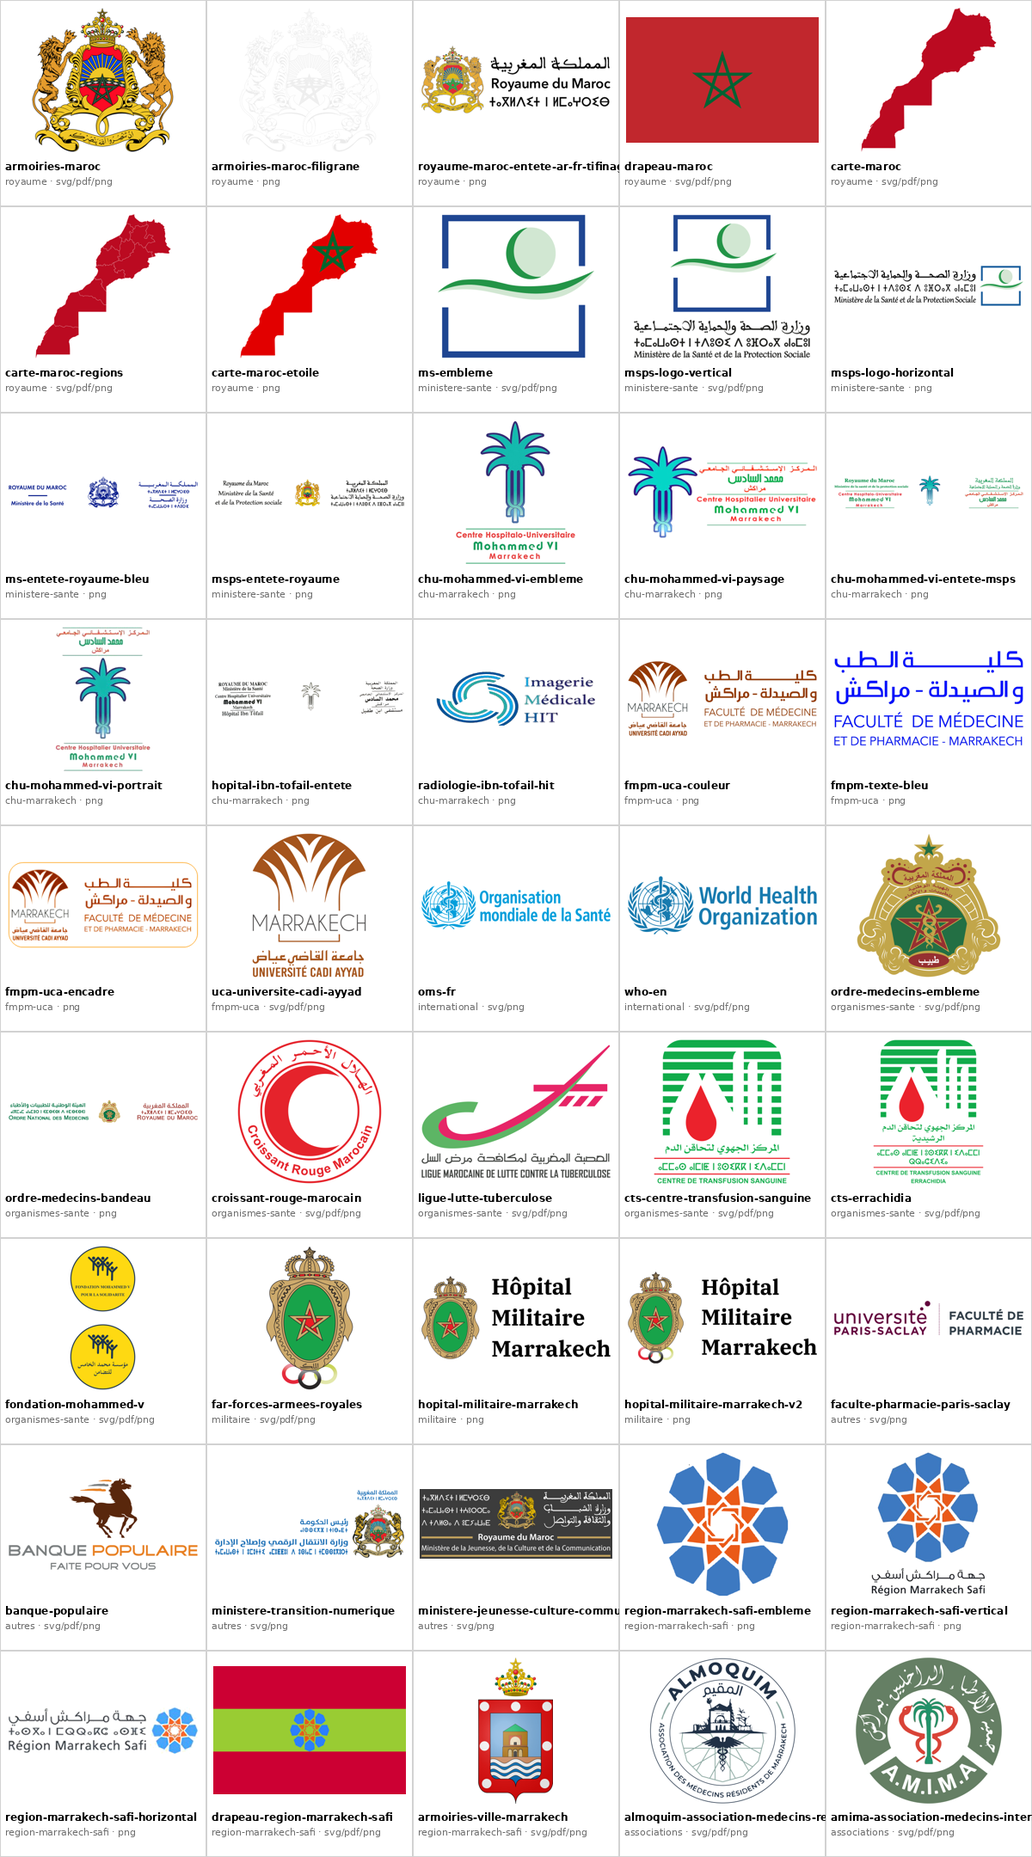
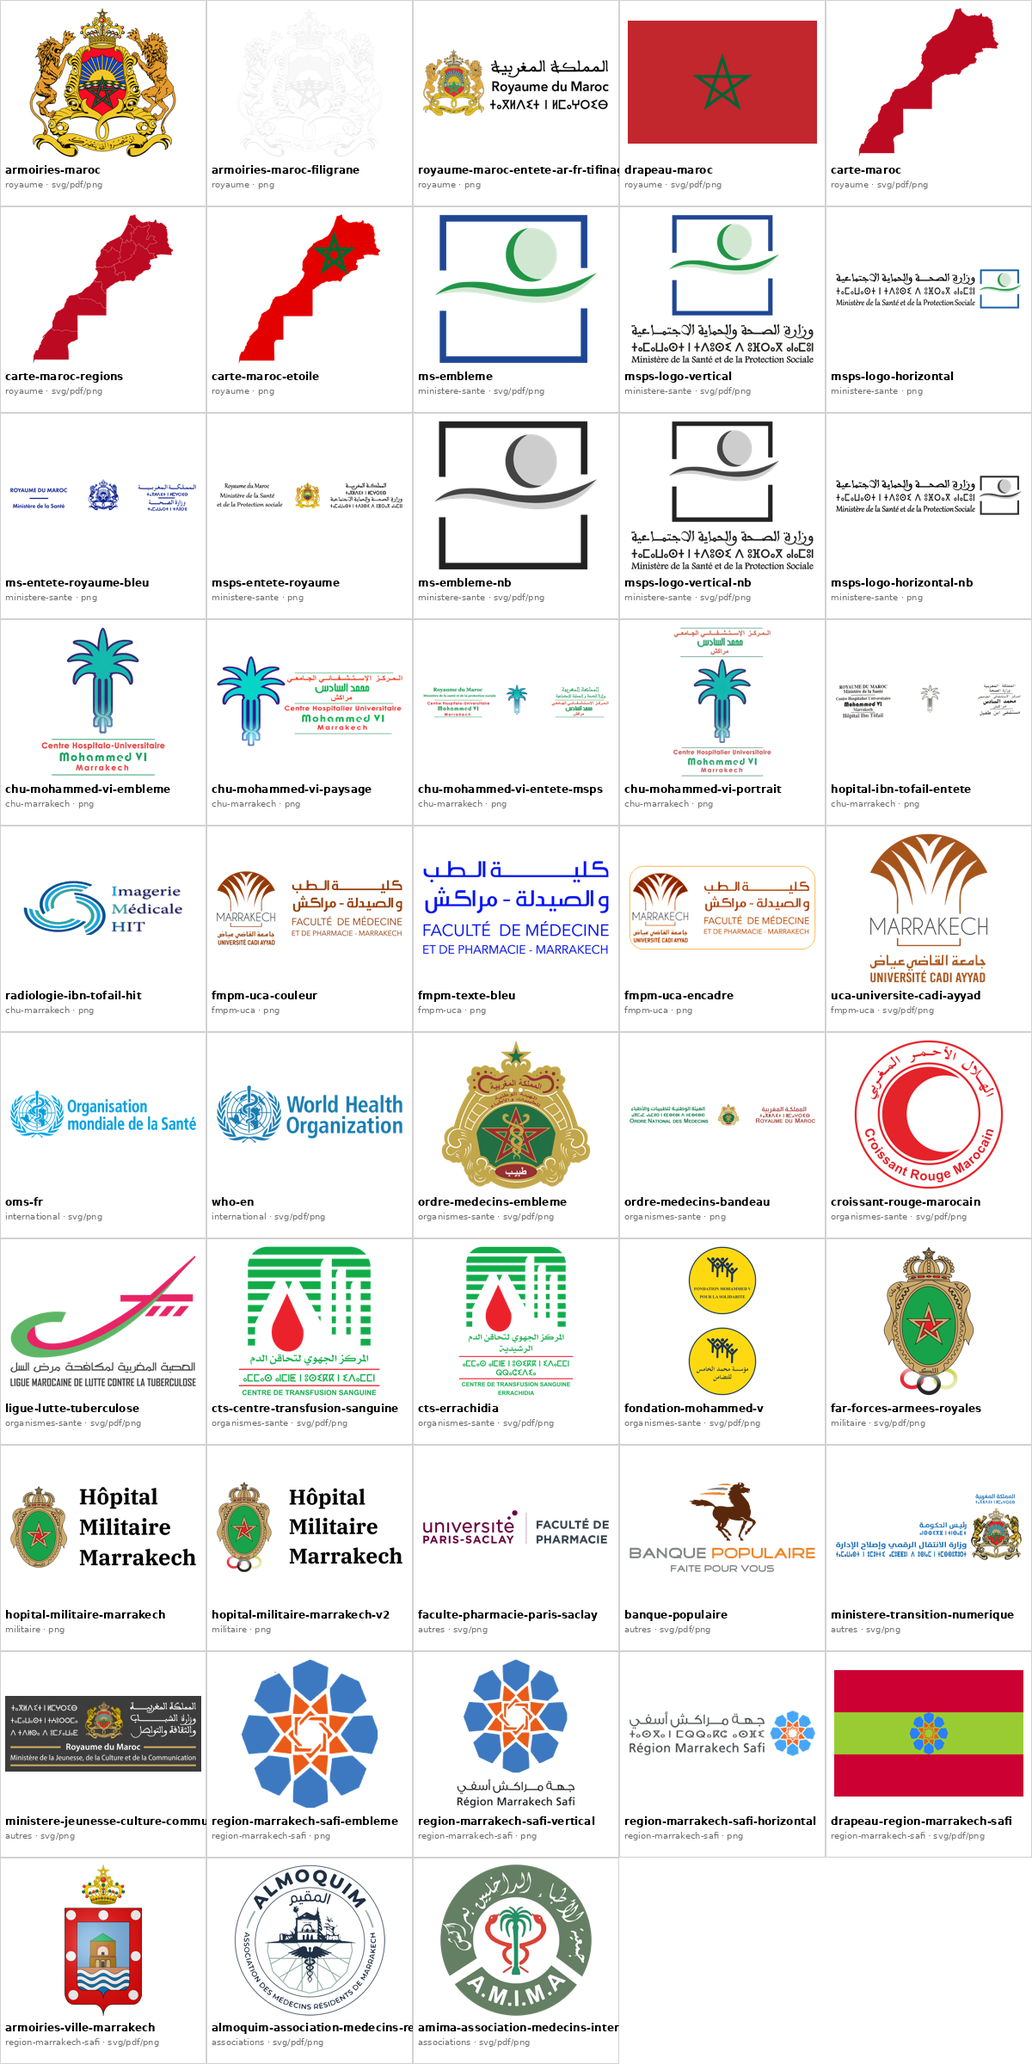
Add CONTEXT.md, build.sh and catalogue consistency check
- CONTEXT.md: project context for AI assistants (assets/ is the only home
  for logos; check the installed skill against the repo before use)
- build.sh (already referenced by SKILL.md): regenerate catalogue.png,
  verify assets/ = catalogue.json = SKILL.md = README.md, zip the skill
  into dist/logos-officiels-maroc.zip
- scripts/planche_catalogue.py: regenerate the preview sheet; it now
  shows all 48 logos (the 3 MSPS B&W variants were missing)
- outils/verifier_catalogue.py: fail on missing/orphan files, ids absent
  from the SKILL.md/README.md tables, or a wrong logo count
- SKILL.md: add the 3 MSPS B&W rows to the catalogue table, fix
  TO-ADD.md -> to-add.md, document the regenerate/build steps
- to-add.md: use the table format and "Fait" section SKILL.md describes
- .gitattributes: mark png/jpg/pdf/zip as binary; add .gitignore

Claude-Session: https://claude.ai/code/session_012YGmGSGwMLe8gRHBoyrvgG

Changed region(s): [[0.0, 0.0, 1.0, 1.0], [0.9867, 0.9616, 1.0, 1.0]]

diff --git a/outils/verifier_catalogue.py b/outils/verifier_catalogue.py
@@ -1,0 +1,55 @@
+"""Vérifie que assets/, catalogue.json, SKILL.md et README.md décrivent les mêmes logos.
+
+Outil du dépôt (hors skill) — lancé par ./build.sh.
+
+Usage :
+  python3 outils/verifier_catalogue.py      # code 1 + liste des écarts s'il y en a
+
+Contrôles :
+  - chaque fichier cité dans assets/catalogue.json existe, est nommé <id>.<format>
+    et rangé dans assets/logos/<categorie>/ ; chaque entrée a un PNG ;
+  - aucun fichier de assets/logos/ n'est absent du catalogue ;
+  - chaque id du catalogue figure dans les tableaux de SKILL.md et de README.md ;
+  - le nombre annoncé (« bibliothèque de N logos ») dans SKILL.md et README.md est le bon.
+"""
+import json, os, re, sys
+
+RACINE = os.path.normpath(os.path.join(os.path.dirname(os.path.abspath(__file__)), ".."))
+CAT = json.load(open(os.path.join(RACINE, "assets", "catalogue.json"), encoding="utf-8"))
+
+
+def erreurs():
+    out, cites = [], set()
+    for e in CAT:
+        for f in e["fichiers"]:
+            cites.add(f["fichier"])
+            if not os.path.exists(os.path.join(RACINE, f["fichier"])):
+                out.append(f"fichier manquant : {f['fichier']}")
+            if f["fichier"] != f"assets/logos/{e['categorie']}/{e['id']}.{f['format']}":
+                out.append(f"chemin inattendu pour {e['id']} : {f['fichier']}")
+        if not any(f["format"] == "png" for f in e["fichiers"]):
+            out.append(f"pas de PNG pour {e['id']}")
+    for r, _, fs in os.walk(os.path.join(RACINE, "assets", "logos")):
+        for f in fs:
+            rel = os.path.relpath(os.path.join(r, f), RACINE)
+            if rel not in cites:
+                out.append(f"fichier hors catalogue : {rel}")
+    for doc in ("SKILL.md", "README.md"):
+        texte = open(os.path.join(RACINE, doc), encoding="utf-8").read()
+        out += [f"{doc} : id absent des tableaux : {e['id']}" for e in CAT if f"| `{e['id']}` |" not in texte]
+        out += [f"{doc} : annonce {n} logos, le catalogue en a {len(CAT)}"
+                for n in re.findall(r"[Bb]iblioth[eè]que de \**(\d+) logos", texte) if int(n) != len(CAT)]
+    return out
+
+
+def main():
+    err = erreurs()
+    for x in err:
+        print("ERREUR", x)
+    if err:
+        sys.exit(1)
+    print(f"OK : {len(CAT)} logos, assets/ = catalogue.json = SKILL.md = README.md")
+
+
+if __name__ == "__main__":
+    main()

diff --git a/scripts/planche_catalogue.py b/scripts/planche_catalogue.py
@@ -1,0 +1,51 @@
+"""Régénère la planche d'aperçu assets/catalogue.png depuis assets/catalogue.json.
+
+Usage :
+  python3 planche_catalogue.py [sortie.png]
+
+Une vignette de 240 px par logo (5 colonnes), dans l'ordre du catalogue :
+logo centré (sur fond sombre si sa variante contient « fond sombre »), id en gras, « catégorie · formats » en gris dessous.
+À relancer après tout ajout / retrait de logo dans catalogue.json.
+"""
+import json, os, sys
+from PIL import Image, ImageDraw, ImageFont
+
+ICI = os.path.dirname(os.path.abspath(__file__))
+SK = os.path.normpath(os.path.join(ICI, ".."))
+CAT = json.load(open(os.path.join(SK, "assets", "catalogue.json"), encoding="utf-8"))
+T, COLS = 240, 5
+
+
+def police(nom, taille):
+    try:
+        return ImageFont.truetype(f"/usr/share/fonts/truetype/dejavu/{nom}.ttf", taille)
+    except OSError:
+        return ImageFont.load_default()
+
+
+def main():
+    dst = sys.argv[1] if len(sys.argv) > 1 else os.path.join(SK, "assets", "catalogue.png")
+    fb, fr = police("DejaVuSans-Bold", 12), police("DejaVuSans", 10)
+    rows = (len(CAT) + COLS - 1) // COLS
+    sheet = Image.new("RGB", (COLS * T, rows * T), "white")
+    for i, e in enumerate(CAT):
+        src = next(f["fichier"] for f in e["fichiers"] if f["format"] == "png")
+        im = Image.open(os.path.join(SK, src)).convert("RGBA")
+        im.thumbnail((T - 20, T - 64))
+        t = Image.new("RGBA", (T, T), "white")
+        x, y = (T - im.width) // 2, 8 + (T - 64 - im.height) // 2
+        d = ImageDraw.Draw(t)
+        if "fond sombre" in e["variante"]:  # logo blanc : invisible sur la vignette blanche sinon
+            d.rectangle([x - 4, y - 4, x + im.width + 3, y + im.height + 3], fill=(60, 60, 60))
+        t.alpha_composite(im, (x, y))
+        d.rectangle([0, 0, T - 1, T - 1], outline=(210, 210, 210))
+        d.text((6, T - 50), e["id"], fill="black", font=fb)
+        formats = "/".join(f["format"] for f in e["fichiers"])
+        d.text((6, T - 32), f"{e['categorie']} · {formats}", fill=(110, 110, 110), font=fr)
+        sheet.paste(t.convert("RGB"), ((i % COLS) * T, (i // COLS) * T))
+    sheet.save(dst, optimize=True)
+    print(os.path.abspath(dst))
+
+
+if __name__ == "__main__":
+    main()

diff --git a/CONTEXT.md b/CONTEXT.md
@@ -1,0 +1,70 @@
+# logos-officiels-maroc — AI Context File
+_Last synced: 2026-10-16 @ e5e7fdf_
+
+## 1. What This Is (Plain English)
+- **In one sentence:** a Claude skill that keeps 48 cleaned-up official Moroccan logos (kingdom, Ministry of Health, CHU Marrakech, FMPM, WHO…) and hands the one you ask for back as a transparent PNG. It can also print two Marrakech Prefecture admin forms as PDFs.
+- **Why it exists:** I keep needing these logos for letterheads, title pages, attestations and forms. Hunting for them online each time and cleaning off white backgrounds is a waste.
+- **Who uses it:** me, plus anyone I share the skill or repo with (medical students and residents in Marrakech). Public GitHub repo, MIT licence (`LICENSE`). The logos still belong to their institutions (`README.md`, "Avertissement").
+- **Vibe:** a polished personal tool. It's small, but the catalogue has to stay accurate because Claude trusts it blindly.
+- **This repo is also the backup** of the skill. The logos live in **one place only: `assets/`**. There's no separate copy folder.
+
+## 2. How To Run It
+- **Setup once:** `pip install --break-system-packages reportlab arabic-reshaper python-bidi cairosvg scipy pillow` (`SKILL.md`, "Formulaires"). The forms also need the system fonts Liberation Serif and FreeSerif in `/usr/share/fonts/truetype/{liberation,freefont}/`.
+  - Optional, only for adding logos: `vtracer` (vectorising), `opencv-contrib-python-headless` + the `EDSR_x4.pb` model (upscaling, `scripts/agrandir_logo.py:1-20`).
+- **Get a logo:** `python3 scripts/donner_logo.py chu --lister`, then `python3 scripts/donner_logo.py <id> --sortie ./out`
+- **Print a form:** `python3 scripts/formulaire_cessation_reprise.py out.pdf` / `python3 scripts/formulaire_note_stage.py out.pdf`
+- **Build / deploy:** `./build.sh`. It redraws `assets/catalogue.png`, checks that everything lists the same logos, and writes `dist/logos-officiels-maroc.zip`. Upload that zip in Claude → Settings → Capabilities → Skills. For Claude Code, copy the folder to `~/.claude/skills/logos-officiels-maroc/`.
+- **Required env vars:** none.
+
+## 3. Tech Stack
+- **Language + runtime:** Python 3 scripts plus Bash (`build.sh`). No Python version pinned and no `requirements.txt`.
+- **Key libraries:** Pillow (all image work), cairosvg (sharp SVG→PNG when enlarging), reportlab + arabic-reshaper + python-bidi (PDF forms with Arabic), scipy/numpy (background removal), vtracer (tracing). No versions pinned anywhere.
+- **What kind of project:** a Claude Agent Skill (`SKILL.md` with YAML frontmatter `name` + `description`), plus an asset library and CLI scripts.
+- **External services:** none at runtime. Logo sources when adding new ones: official sites, vector.ma, seeklogo.com, Wikimedia Commons.
+- **CI:** none (`.github/` absent).
+
+## 4. Code Map (The Important Files Only)
+- `SKILL.md`: **the brain.** Claude reads it, and its rules (RULE 1 hand out a logo, RULE 2 ask before putting one in a document) drive the behaviour. It also holds a catalogue table per category. Watch out: the frontmatter `description` is 976 chars, and claude.ai caps it at 1024.
+- `assets/catalogue.json`: **the source of truth** for which logos exist. Each entry has `element` (organisation), `variante`, `id`, `categorie`, `description` and `fichiers[]` (with `px` for the PNG). One element can have several variants.
+- `assets/logos/<categorie>/<id>.<png|svg|pdf>`: the logo files. Every entry has a PNG; SVG/PDF exist only when a vector version is available.
+- `assets/couleur/`, `assets/nb/`: the 3 form logos (colour, and B&W on white). `assets/nb/` is hard-wired into the form scripts (`scripts/formulaire_cessation_reprise.py:18-20`).
+- `assets/catalogue.png`: the labelled preview sheet (5 columns, 240 px tiles), drawn by `scripts/planche_catalogue.py`.
+- `scripts/donner_logo.py`: **entry point.** Searches without accents across id/element/variant/category/description. Exit code 2 means several matches (Claude must ask which). It writes `<id>.png`; with `--nb` it writes `<id>-nb.png`.
+- `scripts/optimiser_logo.py`, `vectoriser_logo.py`, `agrandir_logo.py`: prepare new logos (strip background + crop, trace to SVG, upscale ×4).
+- `scripts/formulaire_cessation_reprise.py`, `formulaire_note_stage.py`: A4 PDF forms. `note_stage` imports helpers via `from formulaire_cessation_reprise import *`.
+- `outils/verifier_catalogue.py`: repo-only check (not shipped in the skill). It exits 1 if `assets/` ≠ `catalogue.json` ≠ the `SKILL.md` / `README.md` tables, or if the "bibliothèque de N logos" count is wrong.
+- `build.sh`: preview sheet + check + zip. The zip holds only `SKILL.md README.md LICENSE assets/ scripts/`.
+- `to-add.md`: wishlist of missing logos, in the format `| [ ] | prio | element | variantes | remarque |`, plus a "Fait" section.
+
+## 5. Rules For Editing This Code
+- **Same logos everywhere.** Any logo change has to land in all of these together: the file in `assets/logos/<categorie>/`, the entry in `catalogue.json`, the row in the `SKILL.md` table, the row in the `README.md` table, and the counts in the `SKILL.md` description / `README.md` intro. Then run `./build.sh`; it fails loudly on any mismatch.
+- **Analyse the deployed skill too.** The copy installed in Claude (claude.ai Skills) can lag behind this repo. Before claiming a logo is available, compare the installed skill's `SKILL.md` / catalogue with this repo's `assets/`. Example: on 2026-10-16 the installed description still said 45 logos, while the repo has 48.
+- File naming: `<id>.<format>`, where `id` = `<element>-<variante-slug>`, all lowercase and accent-free. Paths in `catalogue.json` are relative to the repo root.
+- PNGs are RGBA with a transparent background, cropped to the content plus a 1 % margin (`scripts/optimiser_logo.py`).
+- Scripts find files relative to their own location (`os.path.dirname(__file__)/..`). Keep that, because the skill runs from wherever Claude unpacks it.
+- Arabic in reportlab: always `get_display(arabic_reshaper.reshape(text))`.
+- All user-facing text (SKILL.md, script help, docs) is in French. Keep it French.
+- Forms must stay faithful to the scanned originals. Only 2 typos were fixed (see `SKILL.md`). Never add a table to the internship grade form unless asked.
+
+## 6. Fragile Bits & Landmines
+- **Looks broken, isn't:** `drapeau-maroc` and `drapeau-region-marrakech-safi` are deliberately solid rectangles. `armoiries-maroc-filigrane` is deliberately very pale. `ministere-jeunesse-culture-communication` is white (dark backgrounds only, and the preview sheet draws it on dark grey). `fmpm-uca-encadre` keeps its white rounded box.
+- **B&W printing:** plain greyscale makes the gold of the armoiries and the light green of the MS logo vanish (yellow ≈ white). That's why `--nb` uses gamma 1.6 and the `*-nb` MSPS variants exist.
+- **`ms-entete-royaume-bleu`** carries the pre-2021 ministry name. Use it only to reproduce old documents.
+- **Small PNGs (< 400 px)** are listed in `SKILL.md`. Don't print them wider than ~3 cm.
+- **`.gitattributes`:** PNG/JPG/PDF/ZIP are marked `binary`, so `text=auto` can never rewrite line endings inside a PDF.
+- **Skip on cleanup passes:** `assets/couleur/` isn't read by any script, but it holds the colour originals of the form logos. Keep it.
+- `scripts/agrandir_logo.py` contains a hard-coded `/home/claude/...` model path. It's just a fallback location; leave it.
+
+## 7. Current State
+- **Last shipped:** 3 B&W MSPS variants (`ms-embleme-nb`, `msps-logo-vertical-nb`, `msps-logo-horizontal-nb`), bringing the catalogue to 48. Today: added them to the `SKILL.md` tables, redrew `catalogue.png` (it had only 45 tiles), and added `build.sh` (which `SKILL.md` already referenced but didn't exist), `scripts/planche_catalogue.py`, `outils/verifier_catalogue.py`, `.gitignore` and binary rules. Fixed `TO-ADD.md` → `to-add.md` and aligned its format with what `SKILL.md` describes.
+- **Working on now:** keeping the repo as a shareable backup of the skill.
+- **Next up:** re-upload `dist/logos-officiels-maroc.zip` to Claude so the installed skill has all 48 logos. Fill `to-add.md` with the logos that are still missing.
+
+## 8. Update Protocol (Verbatim)
+> **For the AI Assistant:** When asked to "Update CONTEXT.md":
+> 1. Re-run Phase 0 — check for new or changed `CLAUDE.md` / `AGENTS.md` / `GEMINI.md` / `.github/` files, merge what's new, and re-run Phase 3 so each of them still points to `CONTEXT.md`.
+> 2. Re-scan the tree, manifests, and `.github/workflows/` for drift.
+> 3. Read our recent conversation for new decisions, fragile bits discovered, or shifted goals.
+> 4. Refresh the `_Last synced_` line with today's date and current commit SHA.
+> 5. Rewrite — do not append. One clean source of truth. Preserve still-true content, revise the rest.
+> 6. Keep §1 and §2 in plain English. Keep the file under ~200 lines.

diff --git a/SKILL.md b/SKILL.md
@@ -22,7 +22,7 @@ Consignes explicites de l'utilisateur — à appliquer à chaque fois.
    - demander laquelle avec AskUserQuestion (jusqu'à 4 options : libellé = variante, description = format/taille) ; au-delà de 4, demander le numéro sur la planche ;
    - si la recherche couvre plusieurs éléments (ex. « CHU » → CHU Mohammed VI + Hôpital Ibn Tofail), demander d'abord l'élément puis la variante — ou proposer directement les meilleures si c'est clair.
    Puis étape 2. Si l'utilisateur dit « tous » / « toutes les versions », remettre chaque variante.
-4. **Aucune correspondance** → le dire en une phrase, indiquer où le chercher — en priorité le site officiel de l'organisme, puis **[vector.ma](https://vector.ma/)** (logos marocains, souvent vectoriels) et **[seeklogo.com](https://seeklogo.com/)** (fichiers `.ai`/SVG) — demander de l'uploader, et proposer de l'ajouter à la bibliothèque (voir « Ajouter un logo »). L'utilisateur tient la liste des logos manquants dans `TO-ADD.md` à la racine de son dépôt GitHub de la skill : si le logo n'y figure pas, lui proposer la ligne à ajouter (format du tableau : `| [ ] | prio | element | variantes | remarque |`).
+4. **Aucune correspondance** → le dire en une phrase, indiquer où le chercher — en priorité le site officiel de l'organisme, puis **[vector.ma](https://vector.ma/)** (logos marocains, souvent vectoriels) et **[seeklogo.com](https://seeklogo.com/)** (fichiers `.ai`/SVG) — demander de l'uploader, et proposer de l'ajouter à la bibliothèque (voir « Ajouter un logo »). L'utilisateur tient la liste des logos manquants dans `to-add.md` à la racine de son dépôt GitHub de la skill : si le logo n'y figure pas, lui proposer la ligne à ajouter (format du tableau : `| [ ] | prio | element | variantes | remarque |`).
 5. Après la remise, une ligne au plus : proposer SVG/PDF s'ils existent (`--format svg|pdf|tous`) et/ou la version N&B (`--nb`).
 
 Options utiles : `--largeur 800` (redimensionne ; les logos vectoriels sont re-rendus nets même au-delà de la taille stockée), `--nb [gamma]` (gris assombri pour impression N&B, transparence conservée), `--format tous`.
@@ -77,6 +77,9 @@ Chaque entrée = un **élément** (organisme) + une **variante** ; un élément 
 | ministere-sante | horizontal trilingue | `msps-logo-horizontal` | png 875x199 |
 | ministere-sante | bandeau Royaume, ancien nom | `ms-entete-royaume-bleu` | png 1564x288 |
 | ministere-sante | bandeau Royaume + MSPS | `msps-entete-royaume` | png 1209x193 |
+| ministere-sante | emblème seul — noir & blanc | `ms-embleme-nb` | svg, pdf, png 1020x932 |
+| ministere-sante | vertical trilingue — noir & blanc | `msps-logo-vertical-nb` | svg, pdf, png 1655x1349 |
+| ministere-sante | horizontal trilingue — noir & blanc | `msps-logo-horizontal-nb` | png 875x199 |
 
 ### CHU Mohammed VI Marrakech
 
@@ -161,7 +164,7 @@ Sources où chercher (dans cet ordre) : site officiel de l'organisme (version à
 2. **Nouvelle variante d'un élément existant** (cas le plus courant) : réutiliser son `element` exact, choisir une `variante` courte et distinctive (ex. « vertical bleu », « bandeau 2024 », « arabe seul ») et un `id` = `<element>-<variante-en-slug>`. Vérifier d'abord avec `--apercu` que ce n'est pas un doublon visuel d'une variante déjà présente (même dessin, simple différence de taille → garder la meilleure résolution, ne pas ajouter).
    **Nouvel élément** : nouvel `element` en slug (nom de l'organisme).
    Fichiers : `assets/logos/<categorie>/<id>.<ext>` ; entrée dans `catalogue.json` (`element`, `variante`, `id`, `categorie`, `description`, `fichiers` avec `px` pour le PNG).
-3. Régénérer `catalogue.png`, mettre à jour le tableau ci-dessus, cocher la ligne correspondante dans `TO-ADD.md` du dépôt et la déplacer dans « Fait », puis repackager (`./build.sh` à la racine du dépôt).
+3. Régénérer `catalogue.png` (`python3 scripts/planche_catalogue.py`), mettre à jour le tableau ci-dessus et celui du `README.md`, cocher la ligne correspondante dans `to-add.md` du dépôt et la déplacer dans « Fait », puis repackager : `./build.sh` à la racine du dépôt (vérifie que `assets/`, `catalogue.json`, `SKILL.md` et `README.md` listent les mêmes logos, puis crée `dist/logos-officiels-maroc.zip`).
 
 ## Formulaires prêts (A4, vectoriels, optimisés impression N&B)
 

diff --git a/README.md b/README.md
@@ -6,7 +6,7 @@ Skill Claude : bibliothèque de **48 logos officiels marocains** (PNG transparen
 
 ## Installation
 
-- **Claude (app)** : Paramètres → Capacités → Skills → importer le dossier zippé `logos-officiels-maroc/` (celui qui contient `SKILL.md`).
+- **Claude (app)** : `./build.sh` → importer `dist/logos-officiels-maroc.zip` dans Paramètres → Capacités → Skills.
 - **Claude Code** : copier le dossier dans `~/.claude/skills/logos-officiels-maroc/`.
 
 ## Usage rapide
@@ -22,8 +22,12 @@ python3 scripts/donner_logo.py <id> --sortie ./out    # remettre en PNG transpar
 SKILL.md                 instructions lues par Claude
 assets/catalogue.json    index des logos (id, variante, fichiers)
 assets/catalogue.png     planche d'aperçu
-assets/logos/<catégorie>/ fichiers sources
-scripts/                 donner / optimiser / agrandir / vectoriser + formulaires PDF
+assets/logos/<catégorie>/ fichiers des logos (seul emplacement — pas de copie ailleurs)
+assets/couleur, assets/nb logos des formulaires PDF
+scripts/                 donner / optimiser / agrandir / vectoriser / planche + formulaires PDF
+outils/                  vérification du catalogue (hors skill)
+build.sh                 planche + vérification + zip de la skill dans dist/
+CONTEXT.md               contexte du projet pour les assistants IA
 ```
 
 ## Catalogue
@@ -128,7 +132,7 @@ scripts/                 donner / optimiser / agrandir / vectoriser + formulaire
 
 ## Contribuer
 
-Logos manquants → voir [`to-add.md`](to-add.md). Après ajout d'un fichier : mettre à jour `assets/catalogue.json` (et `catalogue.png`).
+Logos manquants → voir [`to-add.md`](to-add.md). Après ajout d'un fichier : mettre à jour `assets/catalogue.json` et les tableaux de `SKILL.md` / `README.md`, puis lancer `./build.sh` (régénère `catalogue.png` et signale tout écart).
 
 ## Avertissement
 

diff --git a/to-add.md b/to-add.md
@@ -1,7 +1,12 @@
 # Logos à ajouter
 
-Sources habituelles : vector.ma, seeklogo.com
+Sources habituelles (dans cet ordre) : site officiel de l'organisme → [vector.ma](https://vector.ma/) → [seeklogo.com](https://seeklogo.com/) → Wikimedia Commons.
 
-| Organisme | Variante voulue | Source trouvée | Statut |
-|---|---|---|---|
-|  |  |  | à chercher |
+| ✓ | Prio | Élément | Variantes voulues | Remarque |
+|---|---|---|---|---|
+| [ ] |  |  |  |  |
+
+## Fait
+
+| ✓ | Prio | Élément | Variantes | Remarque |
+|---|---|---|---|---|
